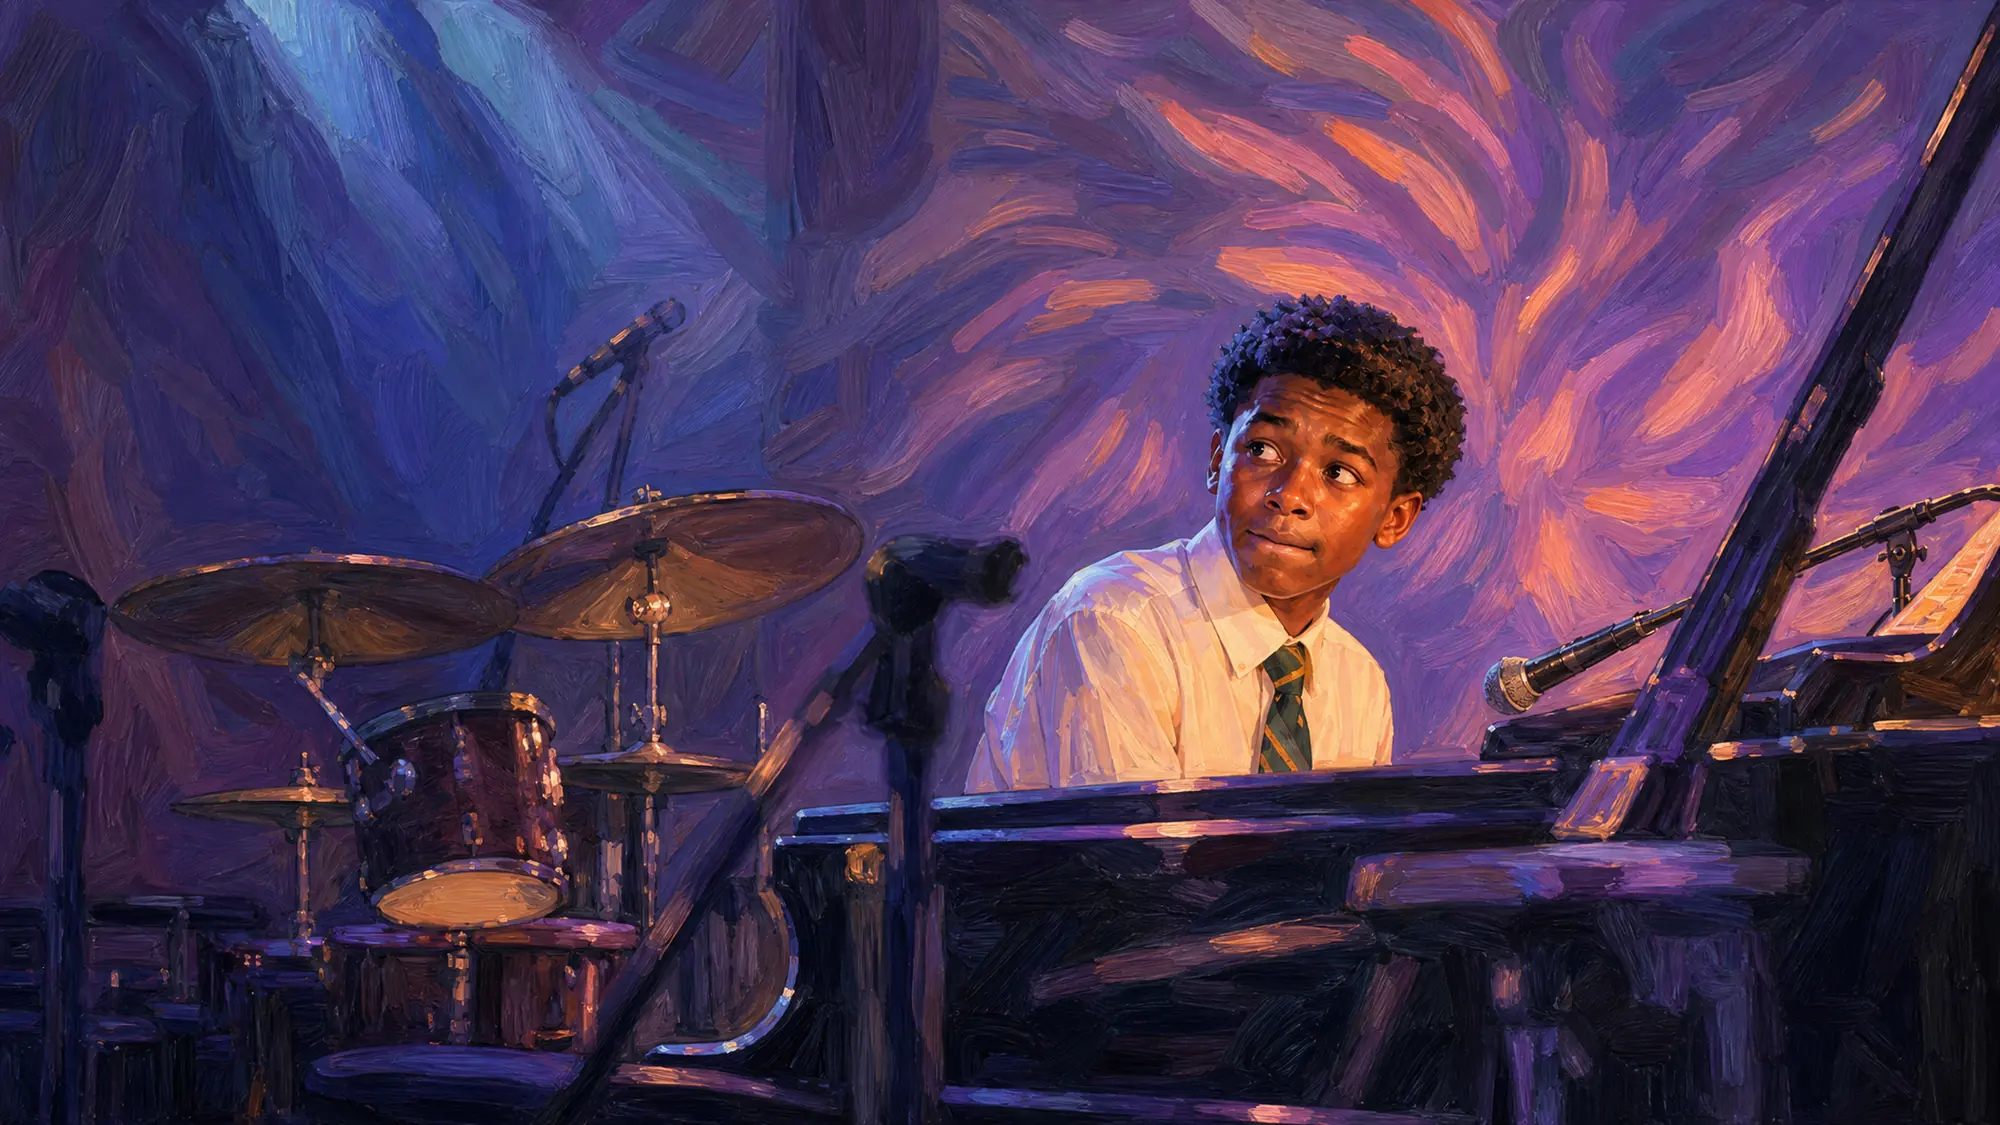
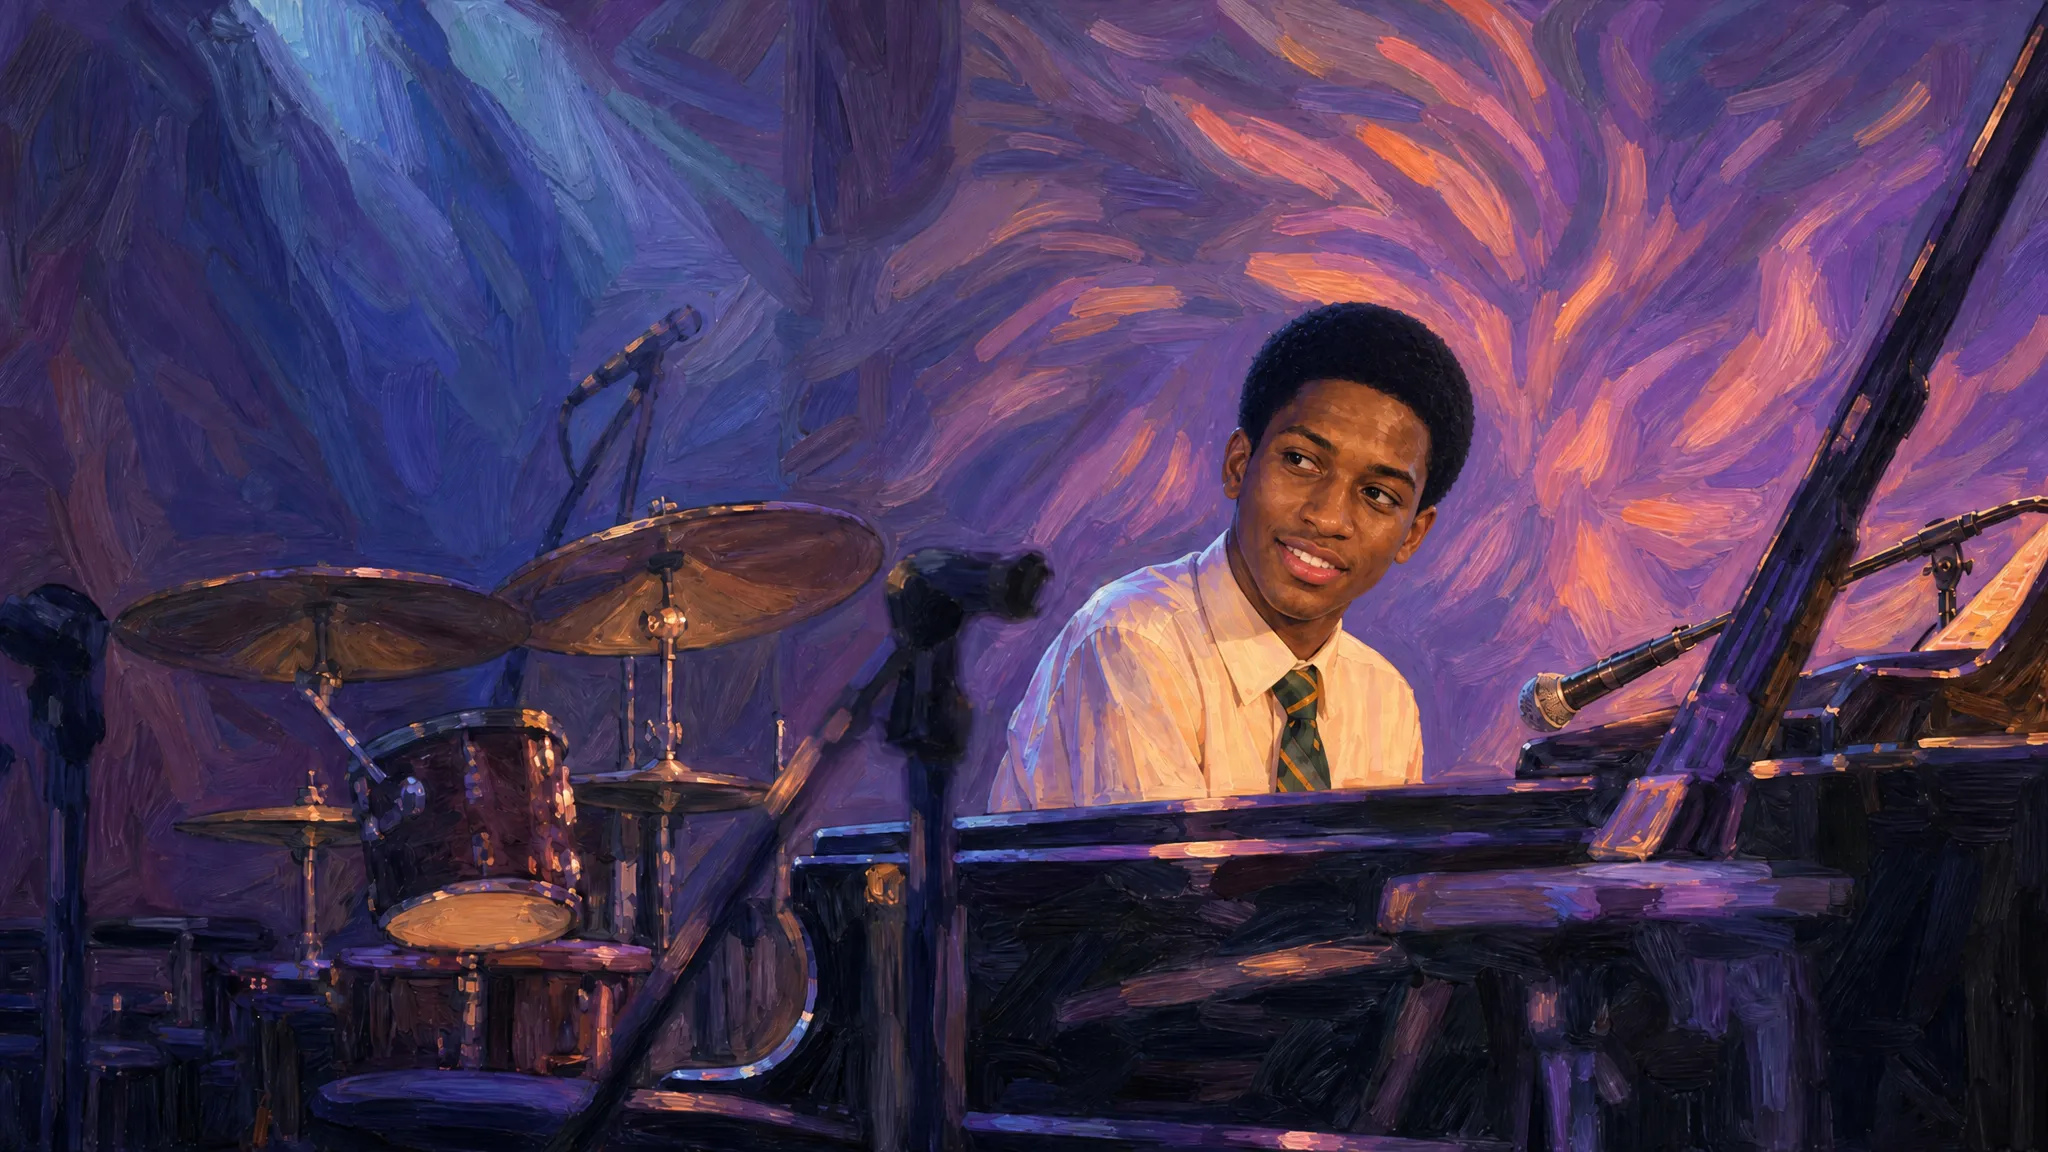
Update the image for the snug harbor gig section (6ae264d8cf629e83b903ae1d)

diff --git a/src/content.config.ts b/src/content.config.ts
@@ -30,6 +30,8 @@ const sections = defineCollection({
     scenes: z.array(z.object({ text: z.string(), photo: z.string().optional() })).default([]),
     // false: the chapter is only its flat panel, with no full-screen scene before it.
     fullScreen: z.boolean().default(true),
+    // Small gold line above the full-screen scene's headline, in the style of the flat panel's chapter number.
+    eyebrow: z.string().optional(),
     // Full-screen scene behind the section's first panel. Without one, the placeholder photo in index.astro shows.
     background: z.string().optional(),
     // Each chapter is two panels: the full-screen scene, then a flat neutral panel with a cutout and text.

diff --git a/src/content/sections/section-2.md b/src/content/sections/section-2.md
@@ -11,9 +11,11 @@ directives:
 interaction: "Collect the clarinet, Alvin Batiste's instrument."
 takeaway: "Pass it on. Share the Louis \"Satchmo\" Armstrong Summer Jazz Camp, held at NOCCA for students 10 to 21, with a young musician you know."
 media: still
-caption: Snug Harbor, Frenchmen Street, New Orleans, 2001–2002
-quotes:
-  - fresh-air-lineage
+eyebrow: Frenchmen Street, New Orleans
+# Cut from the scene: the quote and the caption below the copy.
+# caption: Snug Harbor, Frenchmen Street, New Orleans, 2001–2002
+# quotes:
+#   - fresh-air-lineage
 background: /chapter-2/snug-harbor.webp
 flat:
   heading: Leaving for New York
